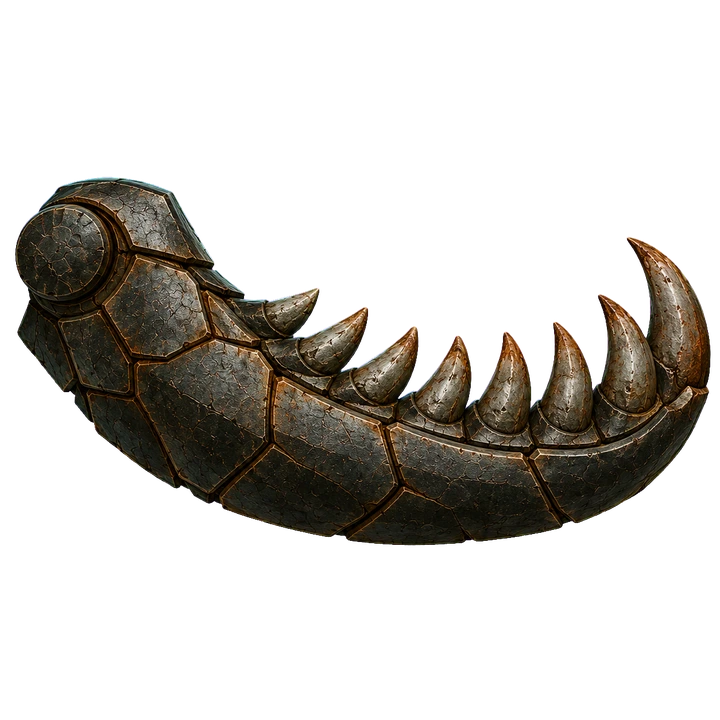
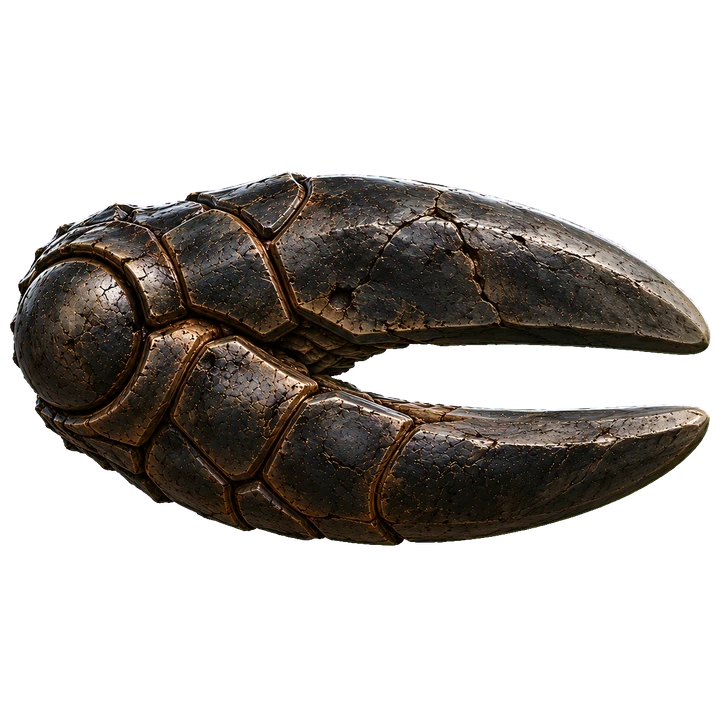
Титан: гребень; броненосец: клешня без зубов (исходники и ключевание)
- assets/sprites/src: crusher_jaw_src.png (клешня), titan_crest_src.png (гребень)
- tools/key_titan.py: ключевание гребня, кадр 720x720 без обрезки
- assets/creatures: crusher_jaw.webp (обновлён), titan_crest.webp

Claude-Session: https://claude.ai/code/session_01PpYFCjWNdNRrAcfmkbGt6g

diff --git a/tools/key_titan.py b/tools/key_titan.py
@@ -1,0 +1,36 @@
+# Вырезает магенту (#FF00FF) из исходника гребня титана. Кадр 720x720, без
+# обрезки, чтобы масштаб относительно других фрагментов сохранялся.
+# Запуск из корня репозитория: python3 tools/key_titan.py
+import os
+import numpy as np
+from PIL import Image
+
+ROOT = os.path.join(os.path.dirname(os.path.abspath(__file__)), '..')
+SRC = os.path.join(ROOT, 'assets/sprites/src') + '/'
+OUT = os.path.join(ROOT, 'assets/creatures') + '/'
+S_OUT = 720
+
+
+def _despill_magenta(r, g, b, alpha):
+    edge = alpha < 250
+    r2 = np.where(edge, np.minimum(r, g * 1.2 + 12), r)
+    b2 = np.where(edge, np.minimum(b, g * 1.2 + 12), b)
+    return r2, b2
+
+
+def key(path):
+    im = np.asarray(Image.open(path).convert('RGB')).astype(np.float32)
+    r, g, b = im[..., 0], im[..., 1], im[..., 2]
+    excess = np.minimum(r, b) - g
+    alpha = 255 * (1 - np.clip((excess - 25) / 55, 0, 1))
+    r2, b2 = _despill_magenta(r, g, b, alpha)
+    out = np.stack([r2, g, b2, alpha], -1)
+    out[..., :3] = np.where((alpha > 0)[..., None], out[..., :3], 0)
+    return out.clip(0, 255).astype(np.uint8)
+
+
+rgba = key(SRC + 'titan_crest_src.png')
+img = Image.fromarray(rgba, 'RGBA').resize((S_OUT, S_OUT), Image.LANCZOS)
+img.save(OUT + 'titan_crest.webp', 'WEBP', quality=92)
+ys, xs = np.where(np.asarray(img)[..., 3] > 8)
+print('crest content box x', xs.min(), xs.max(), 'y', ys.min(), ys.max(), 'frame', S_OUT)
